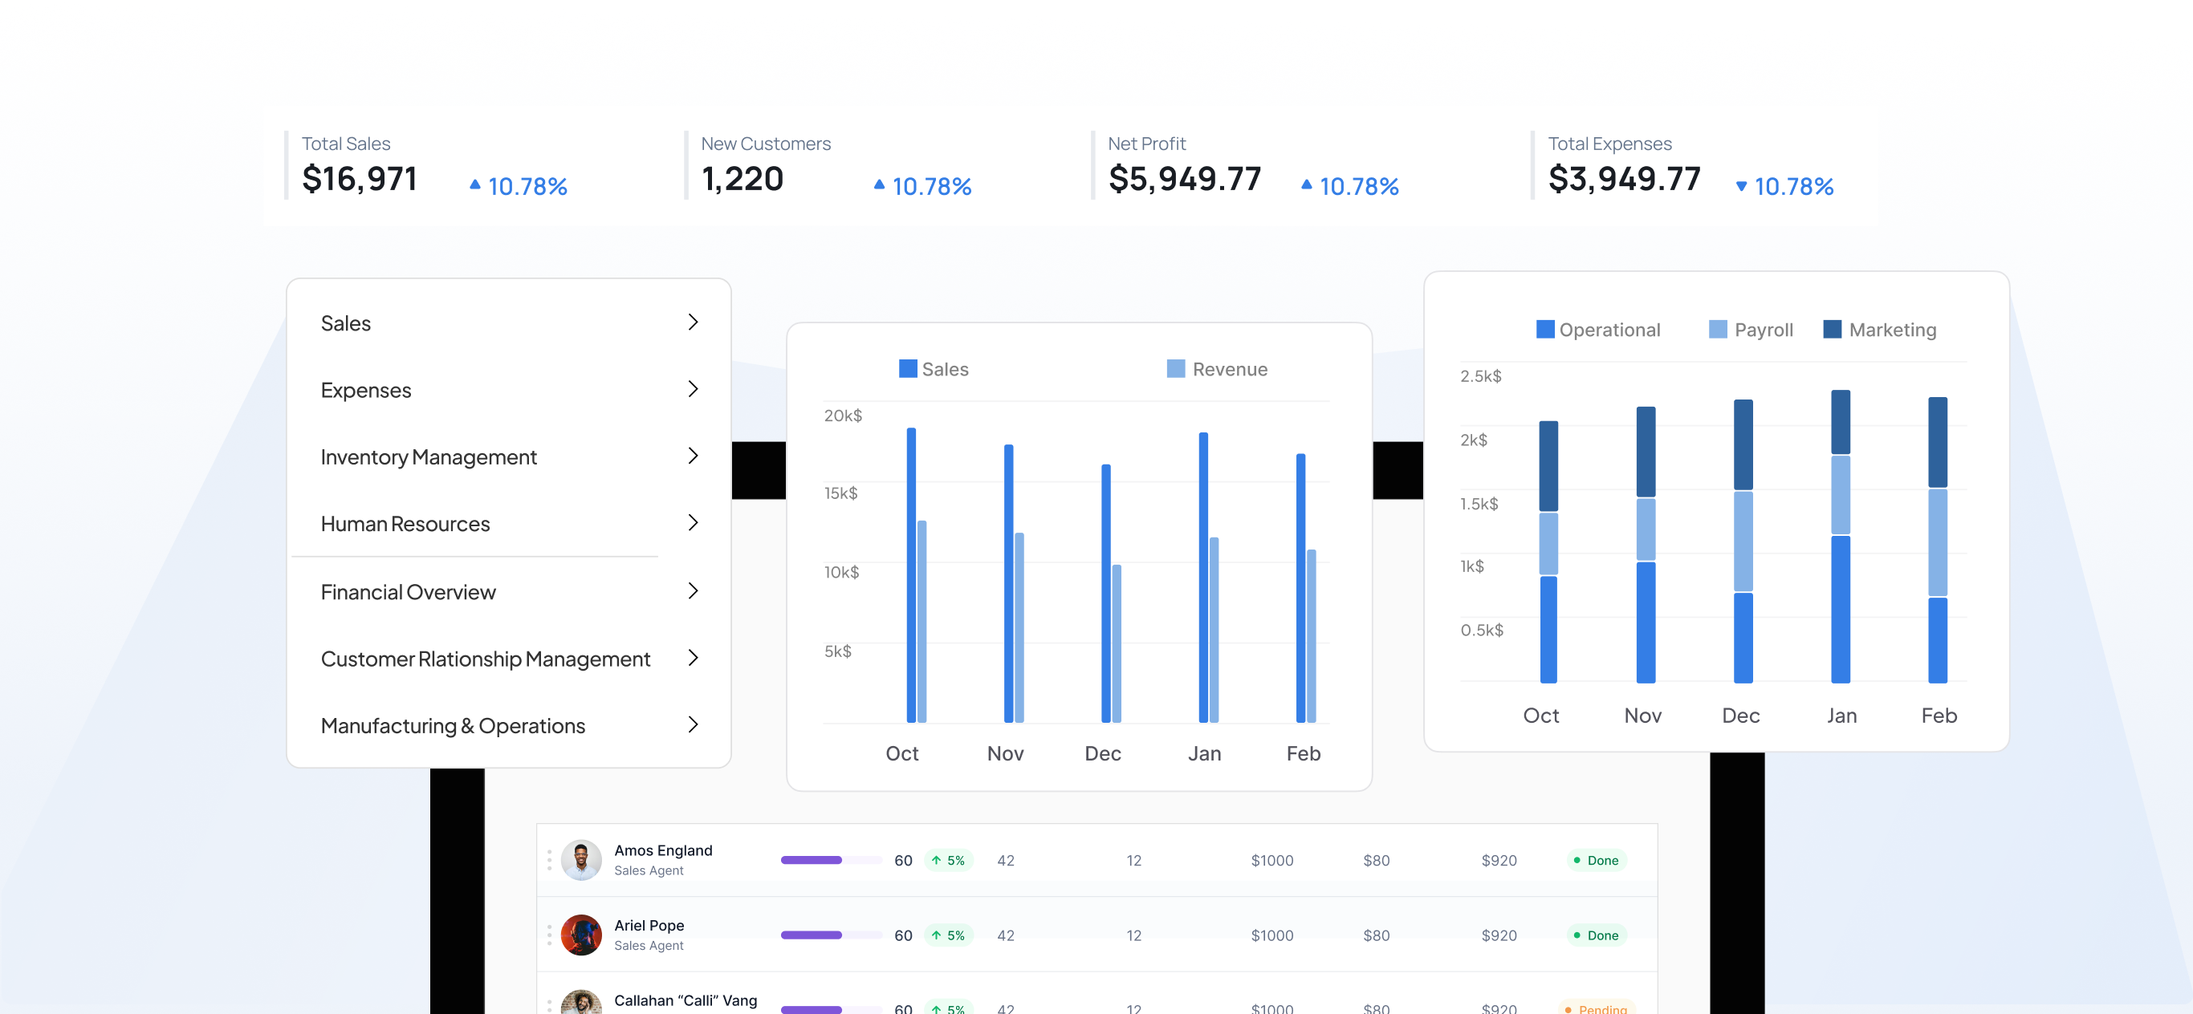
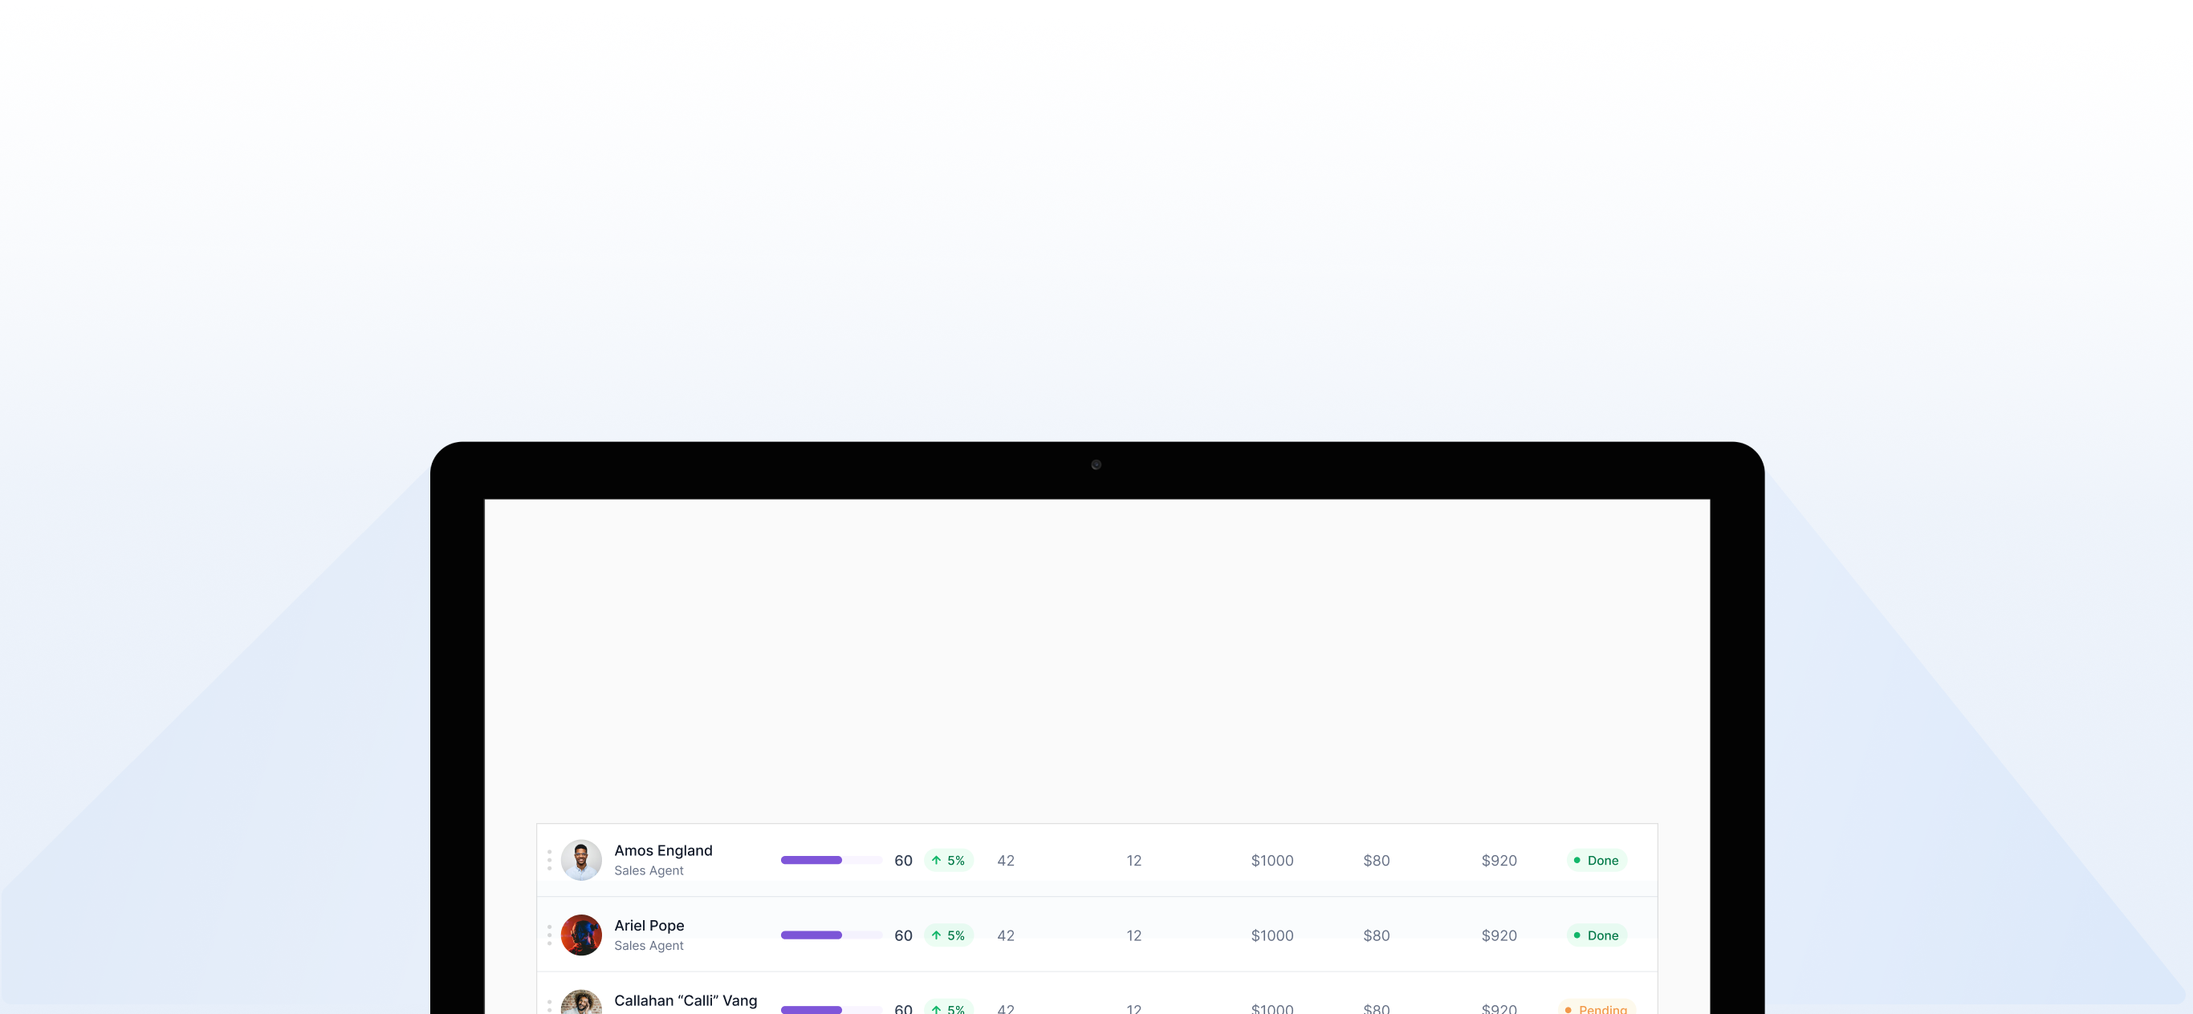
breakdown hero image

diff --git a/src/components/ui/background-lines.tsx b/src/components/ui/background-lines.tsx
@@ -1,0 +1,147 @@
+"use client";
+import { cn } from "@/lib/utils";
+import { motion } from "framer-motion";
+import React from "react";
+
+export const BackgroundLines = ({
+  children,
+  className,
+  svgOptions,
+}: {
+  children: React.ReactNode;
+  className?: string;
+  svgOptions?: {
+    duration?: number;
+  };
+}) => {
+  return (
+    <div
+      className={cn(
+        "h-[20rem] md:h-screen w-full bg-white dark:bg-black",
+        className
+      )}
+    >
+      <SVG svgOptions={svgOptions} />
+      {children}
+    </div>
+  );
+};
+
+const pathVariants = {
+  initial: { strokeDashoffset: 800, strokeDasharray: "50 800" },
+  animate: {
+    strokeDashoffset: 0,
+    strokeDasharray: "20 800",
+    opacity: [0, 1, 1, 0],
+  },
+};
+
+const SVG = ({
+  svgOptions,
+}: {
+  svgOptions?: {
+    duration?: number;
+  };
+}) => {
+  const paths = [
+    "M720 450C720 450 742.459 440.315 755.249 425.626C768.039 410.937 778.88 418.741 789.478 401.499C800.076 384.258 817.06 389.269 826.741 380.436C836.423 371.603 851.957 364.826 863.182 356.242C874.408 347.657 877.993 342.678 898.867 333.214C919.741 323.75 923.618 319.88 934.875 310.177C946.133 300.474 960.784 300.837 970.584 287.701C980.384 274.564 993.538 273.334 1004.85 263.087C1016.15 252.84 1026.42 250.801 1038.22 242.1C1050.02 233.399 1065.19 230.418 1074.63 215.721C1084.07 201.024 1085.49 209.128 1112.65 194.884C1139.8 180.64 1132.49 178.205 1146.43 170.636C1160.37 163.066 1168.97 158.613 1181.46 147.982C1193.95 137.35 1191.16 131.382 1217.55 125.645C1243.93 119.907 1234.19 118.899 1254.53 100.846C1274.86 82.7922 1275.12 92.8914 1290.37 76.09C1305.62 59.2886 1313.91 62.1868 1323.19 56.7536C1332.48 51.3204 1347.93 42.8082 1361.95 32.1468C1375.96 21.4855 1374.06 25.168 1397.08 10.1863C1420.09 -4.79534 1421.41 -3.16992 1431.52 -15.0078",
+    "M720 450C720 450 741.044 435.759 753.062 410.636C765.079 385.514 770.541 386.148 782.73 370.489C794.918 354.83 799.378 353.188 811.338 332.597C823.298 312.005 825.578 306.419 843.707 295.493C861.837 284.568 856.194 273.248 877.376 256.48C898.558 239.713 887.536 227.843 909.648 214.958C931.759 202.073 925.133 188.092 941.063 177.621C956.994 167.151 952.171 154.663 971.197 135.041C990.222 115.418 990.785 109.375 999.488 96.1291C1008.19 82.8827 1011.4 82.2181 1032.65 61.8861C1053.9 41.5541 1045.74 48.0281 1064.01 19.5798C1082.29 -8.86844 1077.21 -3.89415 1093.7 -19.66C1110.18 -35.4258 1105.91 -46.1146 1127.68 -60.2834C1149.46 -74.4523 1144.37 -72.1024 1154.18 -97.6802C1163.99 -123.258 1165.6 -111.332 1186.21 -135.809C1206.81 -160.285 1203.29 -160.861 1220.31 -177.633C1237.33 -194.406 1236.97 -204.408 1250.42 -214.196",
+    "M720 450C720 450 712.336 437.768 690.248 407.156C668.161 376.544 672.543 394.253 665.951 365.784C659.358 337.316 647.903 347.461 636.929 323.197C625.956 298.933 626.831 303.639 609.939 281.01C593.048 258.381 598.7 255.282 582.342 242.504C565.985 229.726 566.053 217.66 559.169 197.116C552.284 176.572 549.348 171.846 529.347 156.529C509.345 141.211 522.053 134.054 505.192 115.653C488.33 97.2527 482.671 82.5627 473.599 70.7833C464.527 59.0039 464.784 50.2169 447 32.0721C429.215 13.9272 436.29 0.858563 423.534 -12.6868C410.777 -26.2322 407.424 -44.0808 394.364 -56.4916C381.303 -68.9024 373.709 -72.6804 365.591 -96.1992C357.473 -119.718 358.364 -111.509 338.222 -136.495C318.08 -161.481 322.797 -149.499 315.32 -181.761C307.843 -214.023 294.563 -202.561 285.795 -223.25C277.026 -243.94 275.199 -244.055 258.602 -263.871",
+    "M720 450C720 450 738.983 448.651 790.209 446.852C841.436 445.052 816.31 441.421 861.866 437.296C907.422 433.172 886.273 437.037 930.656 436.651C975.04 436.264 951.399 432.343 1001.57 425.74C1051.73 419.138 1020.72 425.208 1072.85 424.127C1124.97 423.047 1114.39 420.097 1140.02 414.426C1165.65 408.754 1173.1 412.143 1214.55 411.063C1256.01 409.983 1242.78 406.182 1285.56 401.536C1328.35 396.889 1304.66 400.796 1354.41 399.573C1404.16 398.35 1381.34 394.315 1428.34 389.376C1475.35 384.438 1445.96 386.509 1497.93 385.313C1549.9 384.117 1534.63 382.499 1567.23 381.48",
+    "M720 450C720 450 696.366 458.841 682.407 472.967C668.448 487.093 673.23 487.471 647.919 492.882C622.608 498.293 636.85 499.899 609.016 512.944C581.182 525.989 596.778 528.494 571.937 533.778C547.095 539.062 551.762 548.656 536.862 556.816C521.962 564.975 515.626 563.279 497.589 575.159C479.552 587.04 484.343 590.435 461.111 598.728C437.879 607.021 442.512 605.226 423.603 618.397C404.694 631.569 402.411 629.541 390.805 641.555C379.2 653.568 369.754 658.175 353.238 663.929C336.722 669.683 330.161 674.689 312.831 684.116C295.5 693.543 288.711 698.815 278.229 704.041C267.747 709.267 258.395 712.506 240.378 726.65C222.361 740.795 230.097 738.379 203.447 745.613C176.797 752.847 193.747 752.523 166.401 767.148C139.056 781.774 151.342 783.641 130.156 791.074C108.97 798.507 116.461 802.688 96.0974 808.817C75.7334 814.946 83.8553 819.505 59.4513 830.576C35.0473 841.648 48.2548 847.874 21.8337 853.886C-4.58739 859.898 10.5966 869.102 -16.396 874.524",
+    "M720 450C720 450 695.644 482.465 682.699 506.197C669.755 529.929 671.059 521.996 643.673 556.974C616.286 591.951 625.698 590.8 606.938 615.255C588.178 639.71 592.715 642.351 569.76 665.92C546.805 689.49 557.014 687.498 538.136 722.318C519.258 757.137 520.671 760.818 503.256 774.428C485.841 788.038 491.288 790.063 463.484 831.358C435.681 872.653 437.554 867.001 425.147 885.248C412.74 903.495 411.451 911.175 389.505 934.331C367.559 957.486 375.779 966.276 352.213 990.918C328.647 1015.56 341.908 1008.07 316.804 1047.24C291.699 1086.42 301.938 1060.92 276.644 1100.23C251.349 1139.54 259.792 1138.78 243.151 1153.64",
+    "M719.974 450C719.974 450 765.293 459.346 789.305 476.402C813.318 493.459 825.526 487.104 865.093 495.586C904.659 504.068 908.361 510.231 943.918 523.51C979.475 536.789 963.13 535.277 1009.79 547.428C1056.45 559.579 1062.34 555.797 1089.82 568.96C1117.31 582.124 1133.96 582.816 1159.12 592.861C1184.28 602.906 1182.84 603.359 1233.48 614.514C1284.12 625.67 1254.63 632.207 1306.33 644.465C1358.04 656.723 1359.27 656.568 1378.67 670.21C1398.07 683.852 1406.16 676.466 1456.34 692.827C1506.51 709.188 1497.73 708.471 1527.54 715.212",
+    "M720 450C720 450 727.941 430.821 734.406 379.251C740.87 327.681 742.857 359.402 757.864 309.798C772.871 260.194 761.947 271.093 772.992 244.308C784.036 217.524 777.105 200.533 786.808 175.699C796.511 150.864 797.141 144.333 808.694 107.307C820.247 70.2821 812.404 88.4169 819.202 37.1016C826 -14.2137 829.525 -0.990829 839.341 -30.3874C849.157 -59.784 844.404 -61.5924 855.042 -98.7516C865.68 -135.911 862.018 -144.559 876.924 -167.488C891.83 -190.418 886.075 -213.535 892.87 -237.945C899.664 -262.355 903.01 -255.031 909.701 -305.588C916.393 -356.144 917.232 -330.612 925.531 -374.777",
+    "M720 450C720 450 722.468 499.363 726.104 520.449C729.739 541.535 730.644 550.025 738.836 589.07C747.028 628.115 743.766 639.319 746.146 659.812C748.526 680.306 754.006 693.598 757.006 732.469C760.007 771.34 760.322 765.244 763.893 805.195C767.465 845.146 769.92 822.227 773.398 868.469C776.875 914.71 776.207 901.365 778.233 940.19C780.259 979.015 782.53 990.477 787.977 1010.39C793.424 1030.3 791.788 1060.01 797.243 1082.24C802.698 1104.47 801.758 1130.29 808.181 1149.64C814.604 1168.99 813.135 1171.5 818.026 1225.28C822.918 1279.06 820.269 1267.92 822.905 1293.75",
+    "M720 450C720 450 737.033 492.46 757.251 515.772C777.468 539.084 768.146 548.687 785.517 570.846C802.887 593.005 814.782 609.698 824.589 634.112C834.395 658.525 838.791 656.702 855.55 695.611C872.31 734.519 875.197 724.854 890.204 764.253C905.21 803.653 899.844 790.872 919.927 820.763C940.01 850.654 939.071 862.583 954.382 886.946C969.693 911.309 968.683 909.254 993.997 945.221C1019.31 981.187 1006.67 964.436 1023.49 1007.61C1040.32 1050.79 1046.15 1038.25 1059.01 1073.05C1071.88 1107.86 1081.39 1096.19 1089.45 1131.96C1097.51 1167.73 1106.52 1162.12 1125.77 1196.89",
+    "M720 450C720 450 687.302 455.326 670.489 467.898C653.676 480.47 653.159 476.959 626.58 485.127C600.002 493.295 599.626 495.362 577.94 503.841C556.254 512.319 556.35 507.426 533.958 517.44C511.566 527.454 505.82 526.441 486.464 539.172C467.108 551.904 461.312 546.36 439.357 553.508C417.402 560.657 406.993 567.736 389.393 572.603C371.794 577.47 371.139 583.76 344.54 587.931C317.941 592.102 327.375 593.682 299.411 607.275C271.447 620.868 283.617 615.022 249.868 622.622C216.119 630.223 227.07 630.86 203.77 638.635C180.47 646.41 168.948 652.487 156.407 657.28C143.866 662.073 132.426 669.534 110.894 675.555C89.3615 681.575 90.3234 680.232 61.1669 689.897C32.0105 699.562 34.3696 702.021 15.9011 709.789C-2.56738 717.558 2.38861 719.841 -29.9494 729.462C-62.2873 739.083 -52.5552 738.225 -77.4307 744.286",
+    "M720 450C720 450 743.97 465.061 754.884 490.648C765.798 516.235 781.032 501.34 791.376 525.115C801.72 548.889 808.417 538.333 829.306 564.807C850.195 591.281 852.336 582.531 865.086 601.843C877.835 621.155 874.512 621.773 902.383 643.857C930.255 665.94 921.885 655.976 938.025 681.74C954.164 707.505 959.384 709.719 977.273 720.525C995.162 731.33 994.233 731.096 1015.92 757.676C1037.61 784.257 1025.74 768.848 1047.82 795.343C1069.91 821.837 1065.95 815.45 1085.93 834.73C1105.91 854.009 1110.53 848.089 1124.97 869.759C1139.4 891.428 1140.57 881.585 1158.53 911.499C1176.5 941.414 1184.96 933.829 1194.53 948.792C1204.09 963.755 1221.35 973.711 1232.08 986.224C1242.8 998.738 1257.34 1015.61 1269.99 1026.53C1282.63 1037.45 1293.81 1040.91 1307.21 1064.56",
+    "M720 450C720 450 718.24 412.717 716.359 397.31C714.478 381.902 713.988 362.237 710.785 344.829C707.582 327.42 708.407 322.274 701.686 292.106C694.965 261.937 699.926 270.857 694.84 240.765C689.753 210.674 693.055 217.076 689.674 184.902C686.293 152.728 686.041 149.091 682.676 133.657C679.311 118.223 682.23 106.005 681.826 80.8297C681.423 55.6545 677.891 60.196 675.66 30.0226C673.429 -0.150848 672.665 -7.94842 668.592 -26.771C664.52 -45.5935 664.724 -43.0755 661.034 -78.7766C657.343 -114.478 658.509 -103.181 653.867 -133.45C649.226 -163.719 650.748 -150.38 647.052 -182.682C643.357 -214.984 646.125 -214.921 645.216 -238.402C644.307 -261.883 640.872 -253.4 637.237 -291.706C633.602 -330.012 634.146 -309.868 630.717 -343.769C627.288 -377.669 628.008 -370.682 626.514 -394.844",
+    "M720 450C720 450 730.384 481.55 739.215 507.557C748.047 533.564 751.618 537.619 766.222 562.033C780.825 586.447 774.187 582.307 787.606 618.195C801.025 654.082 793.116 653.536 809.138 678.315C825.16 703.095 815.485 717.073 829.898 735.518C844.311 753.964 845.351 773.196 852.197 786.599C859.042 800.001 862.876 805.65 872.809 845.974C882.742 886.297 885.179 874.677 894.963 903.246C904.747 931.816 911.787 924.243 921.827 961.809C931.867 999.374 927.557 998.784 940.377 1013.59C953.197 1028.4 948.555 1055.77 966.147 1070.54C983.739 1085.31 975.539 1105.69 988.65 1125.69C1001.76 1145.69 1001.82 1141.59 1007.54 1184.37C1013.27 1227.15 1018.98 1198.8 1029.67 1241.58",
+    "M720 450C720 450 684.591 447.135 657.288 439.014C629.985 430.894 618.318 435.733 600.698 431.723C583.077 427.714 566.975 425.639 537.839 423.315C508.704 420.991 501.987 418.958 476.29 413.658C450.592 408.359 460.205 410.268 416.97 408.927C373.736 407.586 396.443 401.379 359.262 396.612C322.081 391.844 327.081 393.286 300.224 391.917C273.368 390.547 264.902 385.49 241.279 382.114C217.655 378.739 205.497 378.95 181.98 377.253C158.464 375.556 150.084 369.938 117.474 366.078C84.8644 362.218 81.5401 361.501 58.8734 358.545C36.2067 355.59 33.6442 351.938 -3.92281 346.728C-41.4898 341.519 -18.6466 345.082 -61.4654 341.179C-104.284 337.275 -102.32 338.048 -121.821 332.369",
+    "M720 450C720 450 714.384 428.193 708.622 410.693C702.86 393.193 705.531 397.066 703.397 372.66C701.264 348.254 697.8 345.181 691.079 330.466C684.357 315.751 686.929 312.356 683.352 292.664C679.776 272.973 679.079 273.949 674.646 255.07C670.213 236.192 670.622 244.371 665.271 214.561C659.921 184.751 659.864 200.13 653.352 172.377C646.841 144.623 647.767 151.954 644.123 136.021C640.48 120.088 638.183 107.491 636.127 96.8178C634.072 86.1443 632.548 77.5871 626.743 54.0492C620.938 30.5112 622.818 28.9757 618.613 16.577C614.407 4.17831 615.555 -13.1527 608.752 -24.5691C601.95 -35.9855 603.375 -51.0511 599.526 -60.1492C595.678 -69.2472 593.676 -79.3623 587.865 -100.431C582.053 -121.5 584.628 -117.913 578.882 -139.408C573.137 -160.903 576.516 -161.693 571.966 -182.241C567.416 -202.789 567.42 -198.681 562.834 -218.28C558.248 -237.879 555.335 -240.47 552.072 -260.968C548.808 -281.466 547.605 -280.956 541.772 -296.427C535.94 -311.898 537.352 -315.211 535.128 -336.018C532.905 -356.826 531.15 -360.702 524.129 -377.124",
+    "M720 450C720 450 711.433 430.82 707.745 409.428C704.056 388.035 704.937 381.711 697.503 370.916C690.069 360.121 691.274 359.999 685.371 334.109C679.469 308.22 677.496 323.883 671.24 294.303C664.984 264.724 667.608 284.849 662.065 258.116C656.522 231.383 656.357 229.024 647.442 216.172C638.527 203.319 640.134 192.925 635.555 178.727C630.976 164.529 630.575 150.179 624.994 139.987C619.413 129.794 615.849 112.779 612.251 103.074C608.654 93.3696 606.942 85.6729 603.041 63.0758C599.14 40.4787 595.242 36.9267 589.533 23.8967C583.823 10.8666 581.18 -2.12401 576.96 -14.8333C572.739 -27.5425 572.696 -37.7703 568.334 -51.3441C563.972 -64.9179 562.14 -67.2124 556.992 -93.299C551.844 -119.386 550.685 -109.743 544.056 -129.801C537.428 -149.859 534.97 -151.977 531.034 -170.076C527.099 -188.175 522.979 -185.119 519.996 -207.061C517.012 -229.004 511.045 -224.126 507.478 -247.077C503.912 -270.029 501.417 -271.033 495.534 -287C489.651 -302.968 491.488 -300.977 484.68 -326.317C477.872 -351.657 476.704 -348.494 472.792 -363.258",
+    "M720 450C720 450 723.524 466.673 728.513 497.319C733.503 527.964 731.894 519.823 740.001 542.706C748.108 565.589 744.225 560.598 748.996 588.365C753.766 616.131 756.585 602.096 761.881 636.194C767.178 670.293 768.155 649.089 771.853 679.845C775.551 710.6 775.965 703.738 781.753 724.555C787.54 745.372 787.248 758.418 791.422 773.79C795.596 789.162 798.173 807.631 804.056 819.914C809.938 832.197 806.864 843.07 811.518 865.275C816.171 887.48 816.551 892.1 822.737 912.643C828.922 933.185 830.255 942.089 833.153 956.603C836.052 971.117 839.475 969.242 846.83 1003.98C854.185 1038.71 850.193 1028.86 854.119 1048.67C858.045 1068.48 857.963 1074.39 863.202 1094.94C868.44 1115.49 867.891 1108.03 874.497 1138.67C881.102 1169.31 880.502 1170.72 887.307 1186.56C894.111 1202.4 890.388 1209.75 896.507 1231.25C902.627 1252.76 902.54 1245.39 906.742 1279.23",
+    "M720 450C720 450 698.654 436.893 669.785 424.902C640.916 412.91 634.741 410.601 615.568 402.586C596.396 394.571 594.829 395.346 568.66 378.206C542.492 361.067 547.454 359.714 514.087 348.978C480.721 338.242 479.79 334.731 467.646 329.846C455.502 324.96 448.63 312.156 416.039 303.755C383.448 295.354 391.682 293.73 365.021 280.975C338.36 268.219 328.715 267.114 309.809 252.575C290.903 238.036 277.185 246.984 259.529 230.958C241.873 214.931 240.502 224.403 211.912 206.241C183.323 188.078 193.288 190.89 157.03 181.714C120.772 172.538 127.621 170.109 108.253 154.714C88.8857 139.319 75.4927 138.974 56.9647 132.314C38.4366 125.654 33.8997 118.704 4.77584 106.7C-24.348 94.6959 -19.1326 90.266 -46.165 81.9082",
+    "M720 450C720 450 711.596 475.85 701.025 516.114C690.455 556.378 697.124 559.466 689.441 579.079C681.758 598.693 679.099 597.524 675.382 642.732C671.665 687.94 663.4 677.024 657.844 700.179C652.288 723.333 651.086 724.914 636.904 764.536C622.723 804.158 631.218 802.853 625.414 827.056C619.611 851.259 613.734 856.28 605.94 892.262C598.146 928.244 595.403 924.314 588.884 957.785C582.364 991.255 583.079 991.176 575.561 1022.63C568.044 1054.08 566.807 1058.45 558.142 1084.32C549.476 1110.2 553.961 1129.13 542.367 1149.25C530.772 1169.37 538.268 1180.37 530.338 1207.27C522.407 1234.17 520.826 1245.53 512.156 1274.2",
+    "M720 450C720 450 730.571 424.312 761.424 411.44C792.277 398.569 772.385 393.283 804.069 377.232C835.752 361.182 829.975 361.373 848.987 342.782C867.999 324.192 877.583 330.096 890.892 303.897C904.201 277.698 910.277 282.253 937.396 264.293C964.514 246.333 949.357 246.834 978.7 230.438C1008.04 214.042 990.424 217.952 1021.51 193.853C1052.6 169.753 1054.28 184.725 1065.97 158.075C1077.65 131.425 1087.76 139.068 1111.12 120.345C1134.49 101.622 1124.9 104.858 1151.67 86.3162C1178.43 67.7741 1167.09 66.2676 1197.53 47.2606C1227.96 28.2536 1225.78 23.2186 1239.27 12.9649C1252.76 2.7112 1269.32 -9.47929 1282.88 -28.5587C1296.44 -47.6381 1305.81 -41.3853 1323.82 -62.7027C1341.83 -84.0202 1340.32 -82.3794 1368.98 -98.9326",
+  ];
+
+  const colors = [
+    "#46A5CA",
+    "#8C2F2F",
+    "#4FAE4D",
+    "#D6590C",
+    "#811010",
+    "#247AFB",
+    "#A534A0",
+    "#A8A438",
+    "#D6590C",
+    "#46A29C",
+    "#670F6D",
+    "#D7C200",
+    "#59BBEB",
+    "#504F1C",
+    "#55BC54",
+    "#4D3568",
+    "#9F39A5",
+    "#363636",
+    "#860909",
+    "#6A286F",
+    "#604483",
+  ];
+  return (
+    <motion.svg
+      viewBox="0 0 1440 900"
+      fill="none"
+      xmlns="http://www.w3.org/2000/svg"
+      initial={{ opacity: 0 }}
+      animate={{ opacity: 1 }}
+      transition={{ duration: 1 }}
+      className="absolute inset-0 w-full h-full"
+    >
+      {paths.map((path, idx) => (
+        <motion.path
+          d={path}
+          stroke={colors[idx]}
+          strokeWidth="2.3"
+          strokeLinecap="round"
+          variants={pathVariants}
+          initial="initial"
+          animate="animate"
+          transition={{
+            duration: svgOptions?.duration || 10,
+            ease: "linear",
+            repeat: Infinity,
+            repeatType: "loop",
+            delay: Math.floor(Math.random() * 10),
+            repeatDelay: Math.floor(Math.random() * 10 + 2),
+          }}
+          key={`path-first-${idx}`}
+        />
+      ))}
+
+      {/* duplicate for more paths */}
+      {paths.map((path, idx) => (
+        <motion.path
+          d={path}
+          stroke={colors[idx]}
+          strokeWidth="2.3"
+          strokeLinecap="round"
+          variants={pathVariants}
+          initial="initial"
+          animate="animate"
+          transition={{
+            duration: svgOptions?.duration || 10,
+            ease: "linear",
+            repeat: Infinity,
+            repeatType: "loop",
+            delay: Math.floor(Math.random() * 10),
+            repeatDelay: Math.floor(Math.random() * 10 + 2),
+          }}
+          key={`path-second-${idx}`}
+        />
+      ))}
+    </motion.svg>
+  );
+};

diff --git a/src/components/hero-image.tsx b/src/components/hero-image.tsx
@@ -1,0 +1,56 @@
+"use client";
+import Image from "next/image";
+import { motion } from "framer-motion";
+
+const HeroImage = () => {
+  return (
+    <div className="relative h-fit w-full">
+      <motion.div
+        initial={{ opacity: 0, y: 100 }}
+        animate={{ opacity: 1, y: 0 }}
+      >
+        <Image
+          src={"/hero-top.png"}
+          alt="chart"
+          width={800}
+          height={800}
+          className="absolute right-[5%] top-[2%] w-[80%]"
+        />
+      </motion.div>
+      <Image
+        src={"/hero-chart-1.png"}
+        alt="chart"
+        width={800}
+        height={800}
+        className="absolute right-[5%] top-[20%] w-[30%]"
+      />
+      <Image
+        src={"/hero-chart-2.png"}
+        alt="chart"
+        width={800}
+        height={800}
+        className="absolute right-[52%] top-[25%] w-[30%] translate-x-1/2"
+      />
+      <Image
+        src={"/hero-sidemenu.png"}
+        alt="chart"
+        width={800}
+        height={800}
+        className="absolute left-[6%] top-[18%] w-[25%]"
+      />
+      <Image
+        src={"/hero-image.png"}
+        alt="hero"
+        layout="responsive"
+        width={1000}
+        height={1000}
+        sizes="100vw"
+        style={{
+          width: "100%",
+          height: "auto",
+        }}
+      />
+    </div>
+  );
+};
+export default HeroImage;

diff --git a/src/components/hero.tsx b/src/components/hero.tsx
@@ -1,5 +1,6 @@
 import { Button } from "@/components/ui/button";
 import Image from "next/image";
+import HeroImage from "./hero-image";
 
 const Hero = () => {
   return (
@@ -59,20 +60,7 @@ const Hero = () => {
           </div>
         </div>
       </div>
-      <div className="w-full">
-        <Image
-          src={"/hero-image.png"}
-          alt="hero"
-          layout="responsive"
-          width={100}
-          height={100}
-          sizes="100vw"
-          style={{
-            width: "100%",
-            height: "auto",
-          }}
-        />
-      </div>
+      <HeroImage />
     </section>
   );
 };
